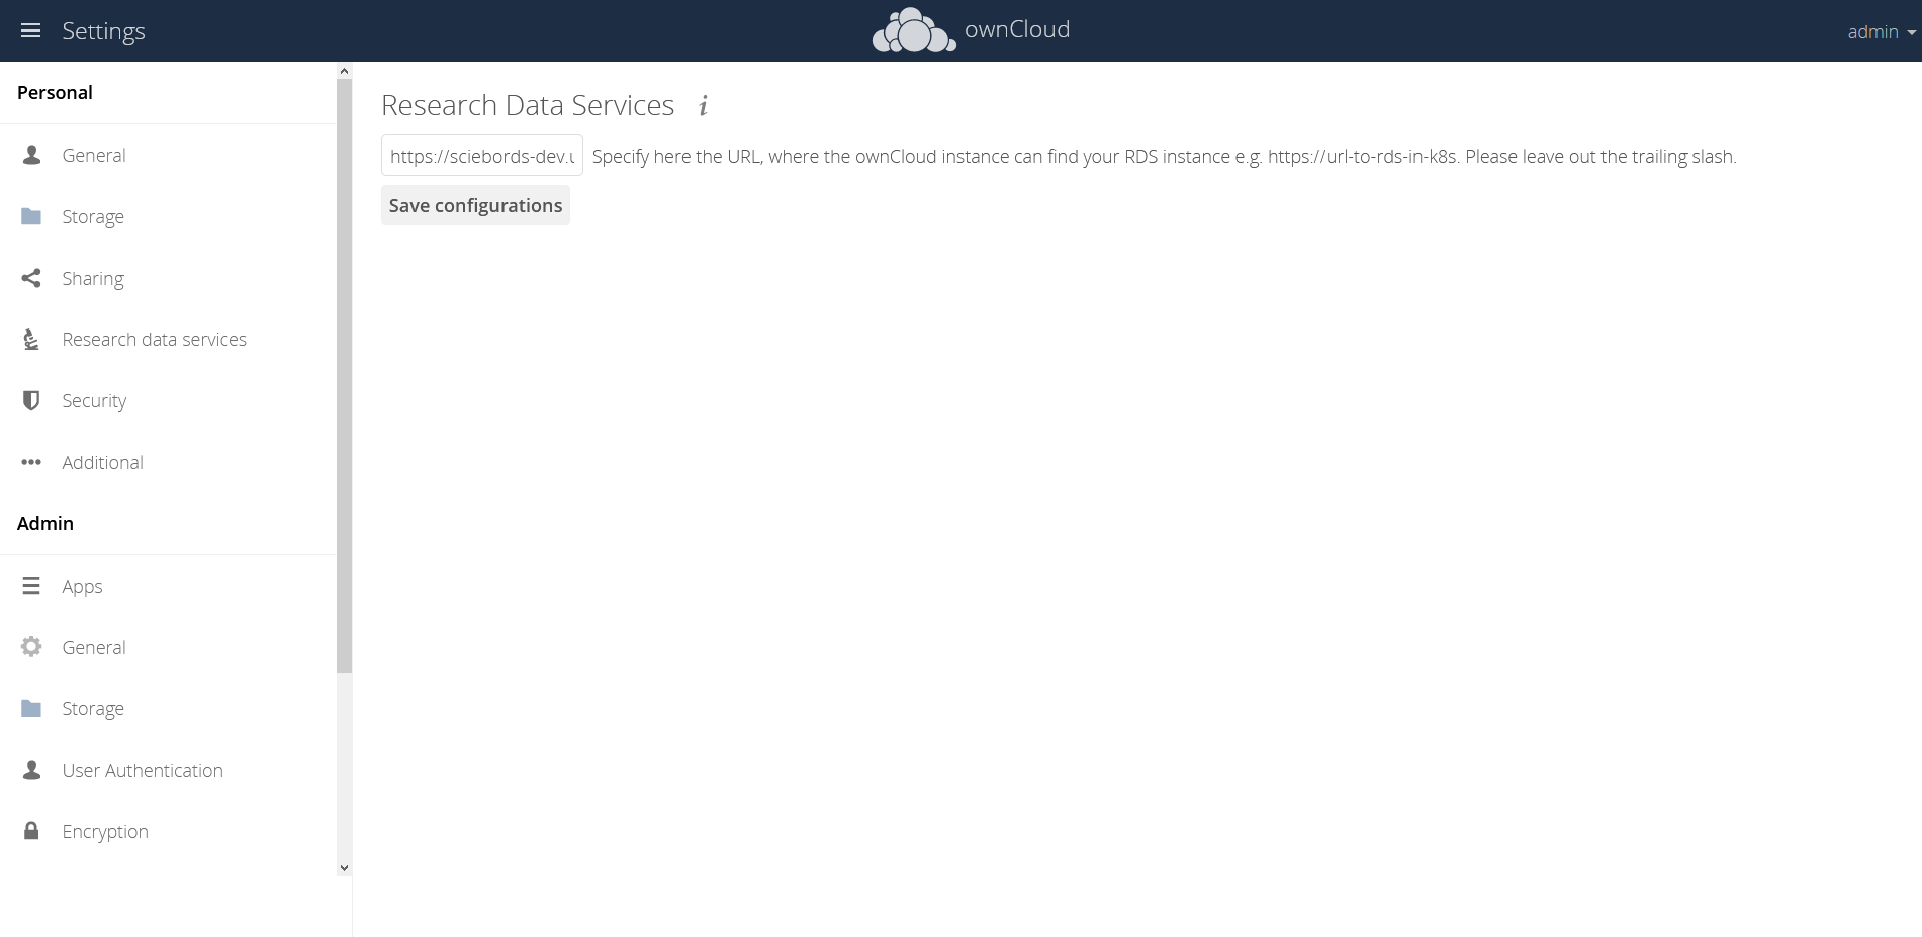
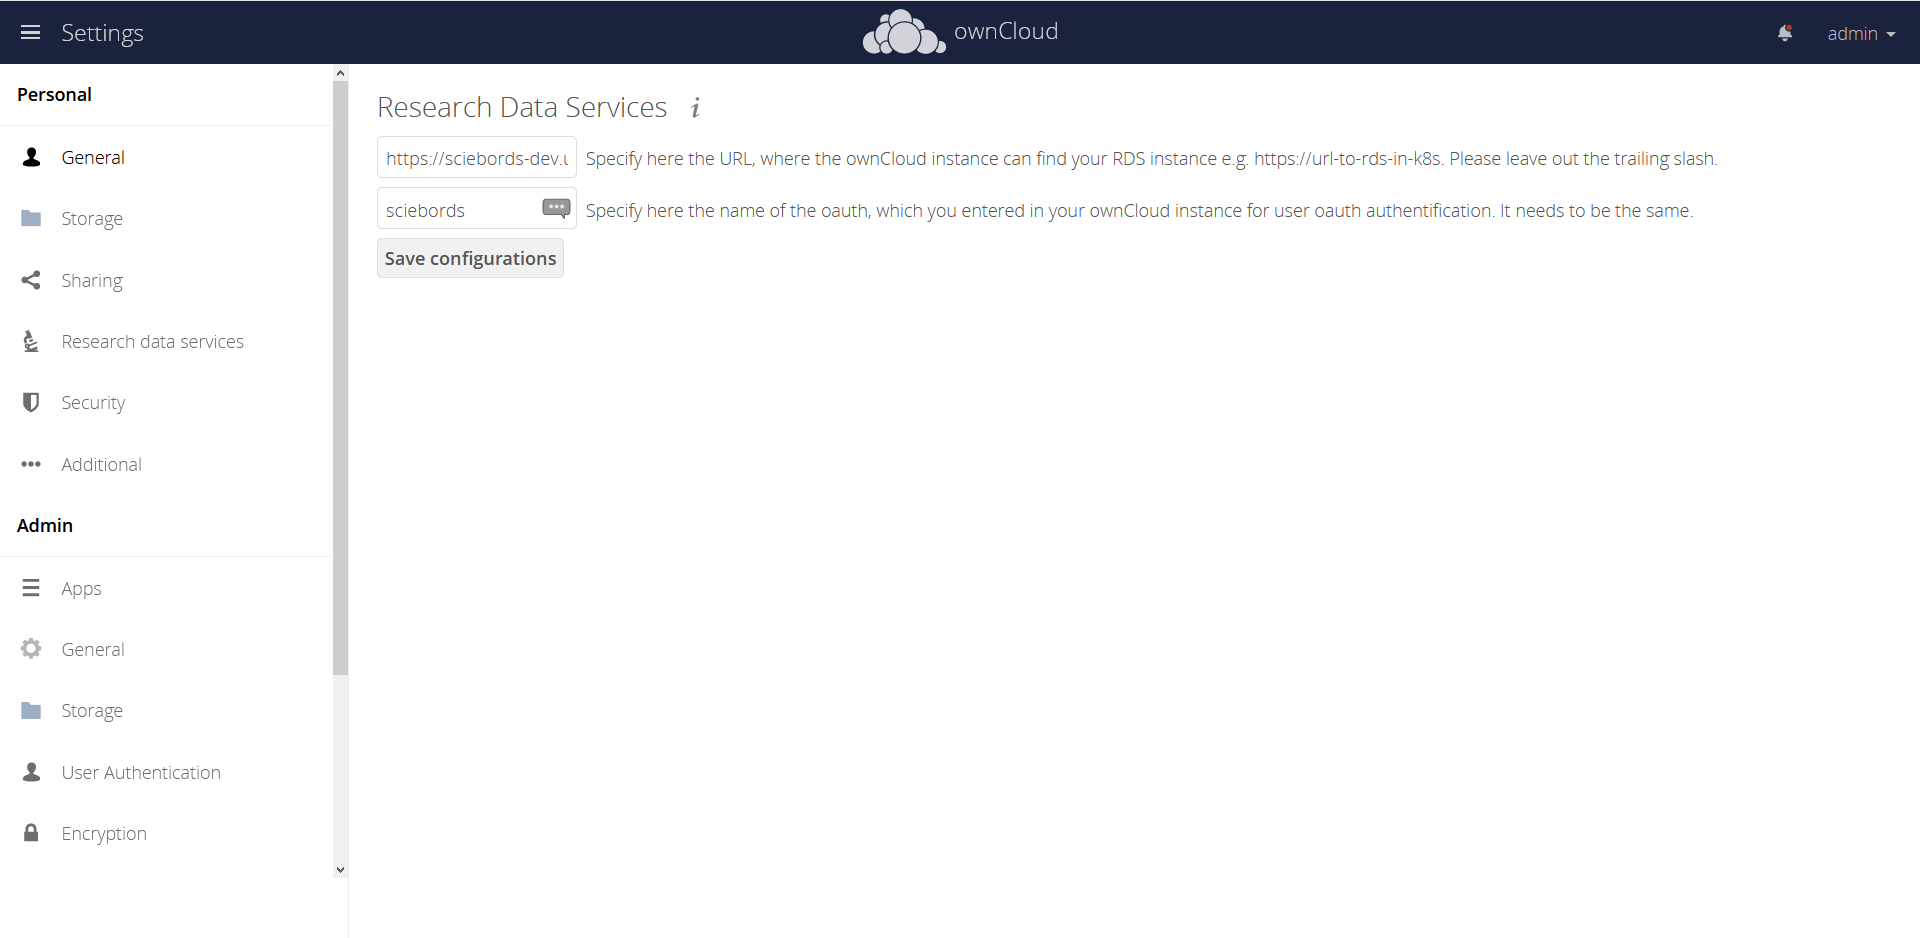
add docs for new rdsService

diff --git a/docs/content/doc/getting-started/k8s.de.md b/docs/content/doc/getting-started/k8s.de.md
@@ -128,6 +128,10 @@ Im Folgenden wird davon ausgegangen, dass Ihre eigene Cloud-Installation unter `
 
 Die Erstellung der Anwendung erfordert eine `Redirect url`. Diese muss an das von Ihnen verwendete Plugin angepasst werden, das Ihre RDS-Instanz in Client-Benutzeroberflächen integriert. Der folgende Endpunkt muss für Ihre Installation verwendet werden, wenn Sie das angegebene Plugin verwenden.
 
+{{<callout info>}}
+Bitte merken Sie sich den Namen, den Sie Ihrer Anwendung in Ihrer Owncloud-Installation geben, da Sie diesen Namen in der Konfiguration des Owncloud-Plugins benötigen.
+{{</callout>}}
+
 | Plugin   | OAuth Endpunkt           | Beispiel-Endpunkt                                 |
 | -------- | ------------------------ | ------------------------------------------------- |
 | ownCloud | index.php/apps/rds/oauth | https://`owncloud.local`/index.php/apps/rds/oauth |

diff --git a/docs/content/doc/impl/plugins/owncloud.de.md b/docs/content/doc/impl/plugins/owncloud.de.md
@@ -51,7 +51,10 @@ sudo setsebool -P httpd_can_network_connect on
 
 Sobald das Plugin in Owncloud, zum Beispiel aus dem Apps Market, installiert und aktiviert wurde (siehe [hier wie](https://doc.owncloud.com/server/admin_manual/installation/apps_management_installation.html)), muss das RDS System in den Einstellungen konfiguriert werden.
 
-![Administratorensicht](/images/oc-plugin-view-admin.png)
+Hier müssen Sie den Namen der anderen Anwendung eingeben, den Sie bei der Installation von kubernetes für das rds-System festgelegt haben. Im folgenden Beispielbild wurde sie `sciebords` genannt. Die in diesem Beispiel verwendete Konfiguration ist auf dem zweiten Bild zu sehen.
+
+![Administrator view](/images/oc-plugin-view-admin.png)
+![Administrator Oauth view](/images/oc-plugin-view-admin-oauth.png)
 
 ### Einstellungen Nutzersicht
 

diff --git a/docs/content/doc/getting-started/k8s.md b/docs/content/doc/getting-started/k8s.md
@@ -128,6 +128,10 @@ The following assumes that your owncloud installation is available under `ownclo
 
 The application creation requires an `redirect url`. This needs to be adjusted to your used plugin, which integrates your RDS instance into client user interfaces. The following endpoint needs to be used for your installation, when you use the given plugin.
 
+{{<callout info>}}
+Please remember the name, which you give your application in your owncloud installation, because you need this name in the configuration of the owncloud plugin.
+{{</callout>}}
+
 | plugin   | oauth endpoint           | example endpoint                                  |
 | -------- | ------------------------ | ------------------------------------------------- |
 | ownCloud | index.php/apps/rds/oauth | https://`owncloud.local`/index.php/apps/rds/oauth |

diff --git a/docs/content/doc/impl/plugins/owncloud.md b/docs/content/doc/impl/plugins/owncloud.md
@@ -54,7 +54,10 @@ sudo setsebool -P httpd_can_network_connect on
 
 Once the plugin has been installed and activated in Owncloud, for example through the Apps Market (see [here how](https://doc.owncloud.com/server/admin_manual/installation/apps_management_installation.html)), the RDS system must be configured in the settings.
 
+Here you need to enter the name of the oauth application, which you set for the rds system during the kubernetes installation process. In the following example image, it was named `sciebords`. The oauth configuration, which were used in this example, can be seen in the second image.
+
 ![Administrator view](/images/oc-plugin-view-admin.png)
+![Administrator Oauth view](/images/oc-plugin-view-admin-oauth.png)
 
 ### user view
 
